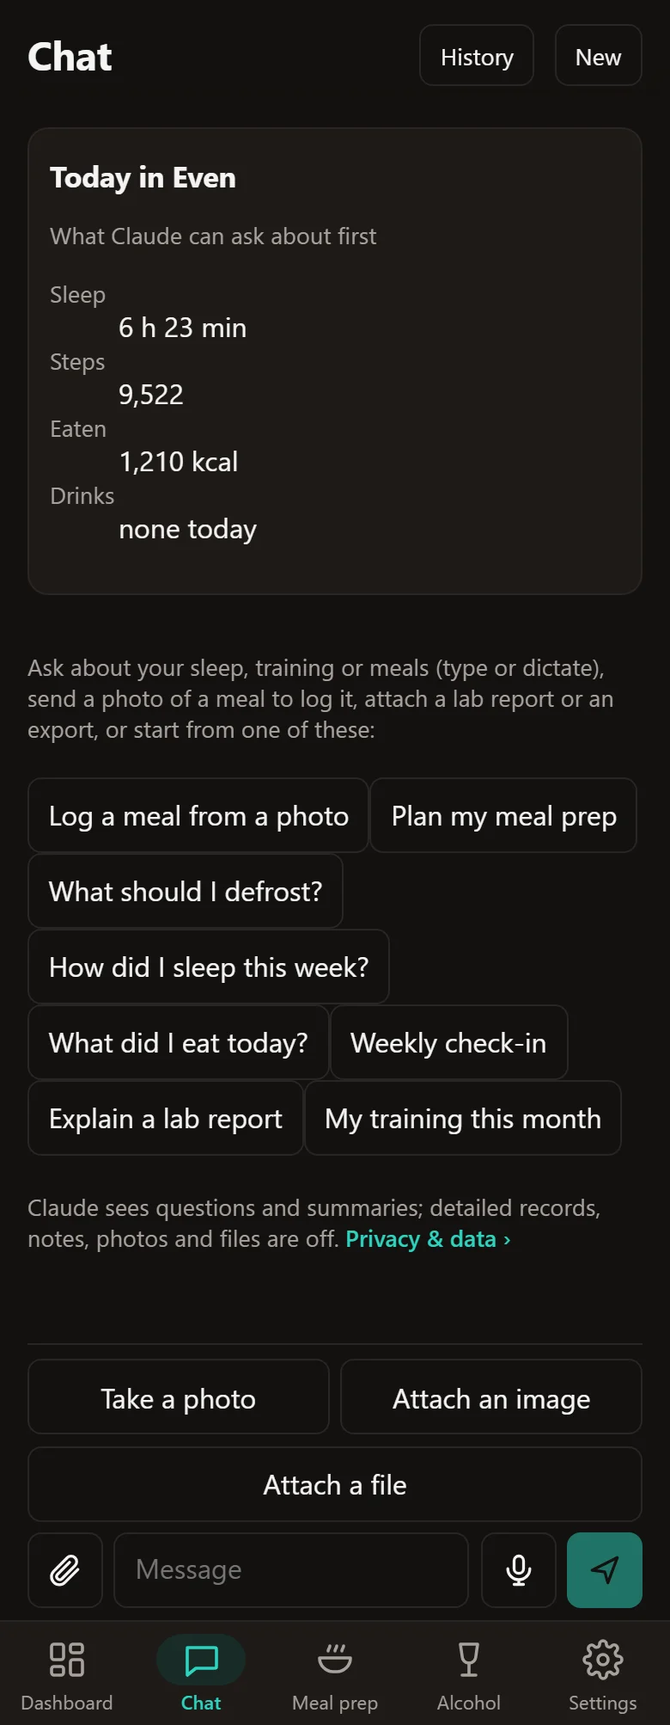
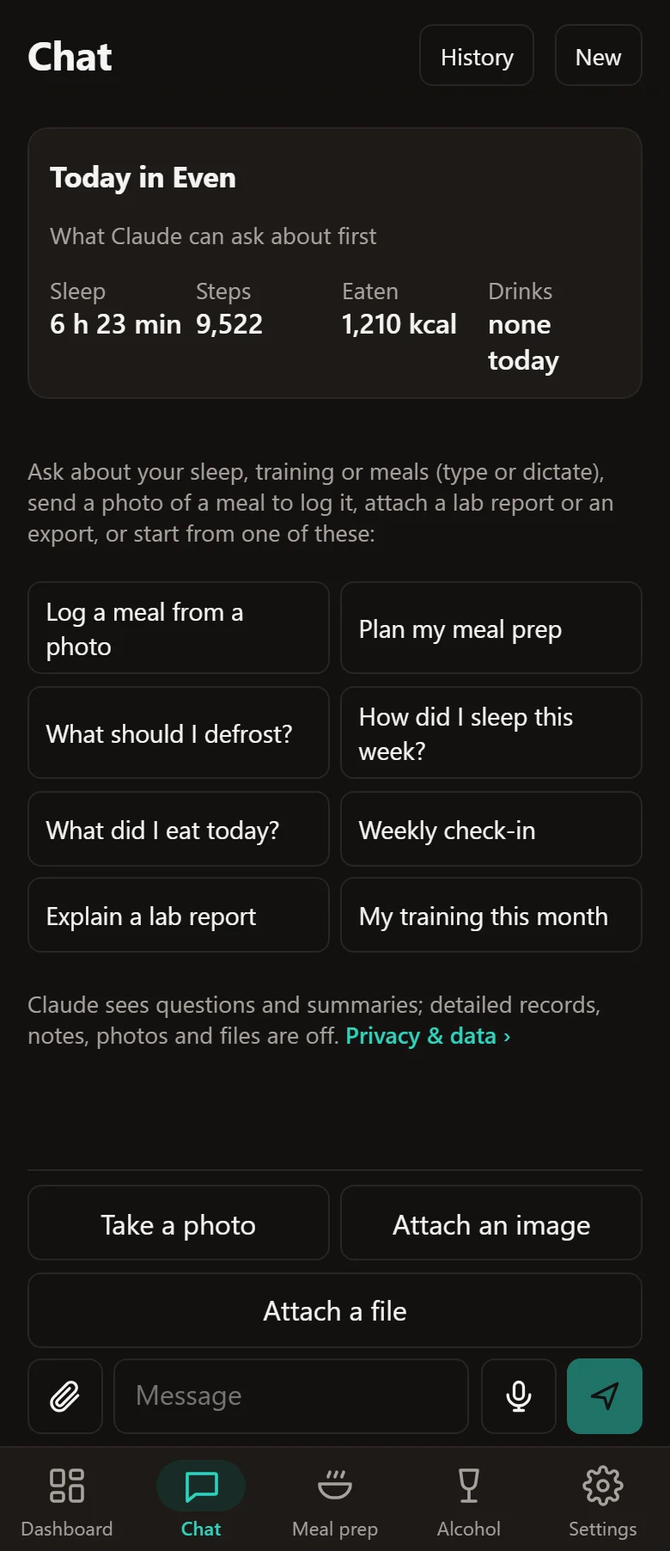
Docs and captures for the new screens; the shopping page's cells reach the grid
README, HLD and LLD describe the Plan tab, the alcohol favourites and
one-off drinks, saved meals, the settings menu and chat as they are now,
and the web's wide grid. New wide captures: plan, shopping, saved meals,
alcohol, settings and About.

diff --git a/docs/screens/index.html b/docs/screens/index.html
@@ -282,11 +282,15 @@ code { font-size: 0.9em; }
 </figure>
 <figure>
   <div class="shot"><img class="light" src="img/light-wide-chat.webp" alt="Web app: Chat on a computer (light)" loading="lazy"><img class="dark" src="img/dark-wide-chat.webp" alt="Web app: Chat on a computer (dark)" loading="lazy"></div>
-  <figcaption><strong>Chat on a computer</strong><span class="muted">Screens other than the Dashboard keep a readable width beside the menu.</span></figcaption>
+  <figcaption><strong>Chat on a computer</strong><span class="muted">The conversations on the left, the chat in the middle, and on the right today's numbers, what Claude may see and the last send.</span></figcaption>
 </figure>
 <figure>
   <div class="shot"><img class="light" src="img/light-wide-mealprep-plan.webp" alt="Web app: Tupper plan on a computer (light)" loading="lazy"><img class="dark" src="img/dark-wide-mealprep-plan.webp" alt="Web app: Tupper plan on a computer (dark)" loading="lazy"></div>
   <figcaption><strong>Tupper plan on a computer</strong><span class="muted">The four tiles in a row, the next 14 days as a two-week calendar (the days with nothing spread over their columns), Cook next beside the shopping list.</span></figcaption>
+</figure>
+<figure>
+  <div class="shot"><img class="light" src="img/light-wide-mealprep-shopping.webp" alt="Web app: Shopping on a computer (light)" loading="lazy"><img class="dark" src="img/dark-wide-mealprep-shopping.webp" alt="Web app: Shopping on a computer (dark)" loading="lazy"></div>
+  <figcaption><strong>Shopping on a computer</strong><span class="muted">The list, what was paid and the month's spending side by side, the six months and the shops under them.</span></figcaption>
 </figure>
 <figure>
   <div class="shot"><img class="light" src="img/light-wide-mealprep-saved.webp" alt="Web app: Saved meals on a computer (light)" loading="lazy"><img class="dark" src="img/dark-wide-mealprep-saved.webp" alt="Web app: Saved meals on a computer (dark)" loading="lazy"></div>

diff --git a/src/apps/web/web.css b/src/apps/web/web.css
@@ -533,33 +533,33 @@ body:has(.app-frame) {
     align-items: stretch;
   }
   /* Without a span a child takes the whole row. */
-  .app-frame .wide-grid > * {
+  .app-frame :is(.wide-grid, .wide-contents) > * {
     grid-column: 1 / -1;
     min-width: 0;
     margin-bottom: 0;
   }
-  .app-frame .wide-grid > .span-3 {
+  .app-frame :is(.wide-grid, .wide-contents) > .span-3 {
     grid-column: span 3;
   }
-  .app-frame .wide-grid > .span-4 {
+  .app-frame :is(.wide-grid, .wide-contents) > .span-4 {
     grid-column: span 4;
   }
-  .app-frame .wide-grid > .span-5 {
+  .app-frame :is(.wide-grid, .wide-contents) > .span-5 {
     grid-column: span 5;
   }
-  .app-frame .wide-grid > .span-6 {
+  .app-frame :is(.wide-grid, .wide-contents) > .span-6 {
     grid-column: span 6;
   }
-  .app-frame .wide-grid > .span-7 {
+  .app-frame :is(.wide-grid, .wide-contents) > .span-7 {
     grid-column: span 7;
   }
-  .app-frame .wide-grid > .span-8 {
+  .app-frame :is(.wide-grid, .wide-contents) > .span-8 {
     grid-column: span 8;
   }
-  .app-frame .wide-grid > .span-9 {
+  .app-frame :is(.wide-grid, .wide-contents) > .span-9 {
     grid-column: span 9;
   }
-  .app-frame .wide-grid > .span-12 {
+  .app-frame :is(.wide-grid, .wide-contents) > .span-12 {
     grid-column: 1 / -1;
   }
   /* A column of cards inside the grid. */

diff --git a/docs/LLD.md b/docs/LLD.md
@@ -514,12 +514,12 @@ If samples were written but a later step failed, the next run rewrites them in p
 
 - **Navigation** is the target's (`Target.Frame`, around the page the shell renders); the five sections are shared (`shell/tabs.ts`).
 - **Tab bar** (Android, `apps/android/TabBar.tsx`, `android.css`): fixed to the bottom on `--surface`, above the gesture area (`env(safe-area-inset-bottom)`), icon and label per tab, the open one with an `--accent-soft` pill behind its icon and `aria-current`. It sets `--tabbar-h`, which keeps the page end, the chat composer and sticky buttons above it (0 without a bar).
-- **Side menu** (web app, `apps/web/SideNav.tsx`, `media.ts`, `web.css`): the five sections on `--surface`, icon and label each, the open one on an `--accent-soft` pill with `aria-current`. Under 48rem (a phone held upright) it is a drawer: the menu button `PageHeader` shows at the top of a tab (through the `NavMenu` context, not on pages with a back button) slides it in over a `--scrim`; a choice, the scrim or Escape close it, and closed it is `inert`. From 48rem (a phone on its side, a tablet, a computer) it is docked on the left, icons only until 75rem; its top button switches labels and icons, kept in `localStorage` (`even.nav.rail`, a layout choice, no data). At its foot, when connected, the account's email and *Sign out* (`FrameProps.account`): it disconnects the device and removes the browser's copy, as Settings > Sync & devices does. Docked, screens get a wider margin (52rem), and the Dashboard 76rem with its sections in two columns from 60rem (`.dash-columns`, `.dash-block`); a phone held upright lays out as on Android. The Dashboard's `.dash-*` wrappers are shared and only the web's styles lay them out.
+- **Side menu** (web app, `apps/web/SideNav.tsx`, `media.ts`, `web.css`): the five sections on `--surface`, icon and label each, the open one on an `--accent-soft` pill with `aria-current`. Under 48rem (a phone held upright) it is a drawer: the menu button `PageHeader` shows at the top of a tab (through the `NavMenu` context, not on pages with a back button) slides it in over a `--scrim`; a choice, the scrim or Escape close it, and closed it is `inert`. From 48rem (a phone on its side, a tablet, a computer) it is docked on the left, icons only until 75rem; its top button switches labels and icons, kept in `localStorage` (`even.nav.rail`, a layout choice, no data). At its foot, when connected, the account's email and *Sign out* (`FrameProps.account`): it disconnects the device and removes the browser's copy, as Settings > Sync & devices does. Docked, every page gets up to 76rem, the Dashboard with its sections in two columns from 60rem (`.dash-columns`, `.dash-block`), and from 64rem every other page lays its cards on a 12-column grid: screens mark them with `.wide-grid` and `.span-N` (`.wide-contents` for a component whose parts are cells), `.wide-only` for context a phone leaves out and `.narrow-only` for the reverse. A phone held upright lays out as on Android. These wrappers are shared, and only the web's styles lay them out: the phone app keeps one column on any screen and never shows `.wide-only`.
 - **Sync**: `SyncButton` at the top of the Dashboard ("Synced 5 min ago", "Syncing…" with a spinner, amber when stale or failed; disabled until a Garmin key is stored) and `SyncBanner` above every tab (3+ days without a sync, or the last attempt failed, with its error and a Sync now button).
 - **DashboardScreen**, top to bottom: the sticky header (profile picture, "Hi, <first name>", today's date, the sync button as the ⟳ symbol only: its state, such as "Synced 5 min ago", is the tooltip and screen-reader label; amber when stale or failed; without a key it opens Settings > Connections); the last sync's warnings; quick actions (*Log food* opens Meal prep on the food log, *Log a drink* the Alcohol tab, *Ask Claude* the Chat, *Check-in* the journal); Day / Week / Month (segmented) and ‹ › between periods, with a way back to the current one (the next arrow stops at today); the hero card, animated in when the period changes: a `Ring` for calories eaten against the calorie target (a limit: warning color and "over" past it) and one for steps against the live steps goal (`targets` from `loadDashboard`), the day's number or the daily average, then burned, balance (eaten minus burned on days with both) and protein, and the calories split by macro (`MacroSplit`: protein, carbs, fat). *Check-in* (› *Journal*): the day's mood, energy and note, or a prompt to write one; for a week or month the days with a note and the average mood and energy; the latest weight (`latestWeight`, opens the measurements). *Energy* tiles: burned and active calories (on a day each with a sparkline of the two weeks before it, `activityTrend`), and for a week or month also eaten and steps with their totals (a day has those in the rings). A day adds *Steps, last two weeks*, a `BarChart` (tap a day to open it). Week and month add a steps `BarChart` (tap a day to open it) and a calories in and out `LineChart` with the calorie target. *Workouts* (› *Your activity* opens the profile), *Alcohol* (› *Open*: drinks with standard drinks and kcal, days without for a week or month, and what they cost when priced; `alcohol` from `loadDashboard`, `alcoholTotals`) and *Meal prep* (› *Open*): the figures as daily averages and totals; stock now; *Groceries*, what the supermarket cost in the period (`groceries` from `loadDashboard`, a dash when nothing is logged). A day also lists every synced number (`dayValues`, with device and "day not over"). Averages divide by days with data, and the current week or month stops at today.
-- **MealPrepScreen** (Meal prep tab): two groups in a `Segmented` bar, *Food log* (Today, History, Saved meals) and *Meal prep* (Stock, Recipes, Shopping), each group's views as `SubTabs`; switching group returns to the view last open in it. `App` owns the open view so the Dashboard can open the food log or the stock. Entries have light text actions (Eat again, ☆ Save, Edit) and a quiet trash icon. *Today*: meter for today against the target (numbers in text, warning color plus the words "over target" when over), macros, set or change the target, "Eat again" suggestions (one tap logs, with Undo), "Log a meal" (name with saved-meal completion that fills the macros, slot chips defaulting to the hour, macros, notes, camera photo, save to favourites), and today's entries by slot. *History*: 7-day `BarChart` of calories with the target as a dashed line (tap a bar to open the day, the selected bar shows its value), weekly average and days over target, the day's entries, jump to the previous logged day. Entries everywhere have Eat again, ☆ Save, Edit and Delete. *Saved meals*: grid of saved meals with photo, kcal, slot, times eaten and last time; log with servings; edit (photo, name, slot, macros, notes) or remove.
-- **AlcoholScreen** (Alcohol tab, `AlcoholView`): *Log a drink* first (one tap per drink type, with Undo, and "Other…"), then *How it adds up*: period chips (today, 7 days, 30 days, year); tiles for drinks (and standard drinks), kcal (flagged when some are estimated) and money (flagged when some drinks have no price); "Weight without alcohol" (expected weight, the difference, where the weight came from, and the caveat); one-tap logging from drink types (with Undo) and "Other…" (name, ml, ABV, kcal with an estimate placeholder, price, how many, save as a type); the period's drinks with delete; drink types with edit/remove; the currency. Drink kcal are also added to the Calories meter ("including N kcal from drinks") and to the History bars and averages.
-  Then the meal prep, with tag filter chips on Stock and Recipes. *Stock*: totals (meals left, in the fridge, frozen), the defrost plan with a portions-a-day field, alerts, one card per batch with fridge and freezer lots, Eat / Freeze / Defrost / Undo for N portions and, under *More*, Toss and Delete batch, and "Log a cook" (portions made, straight to the freezer). *Recipes*: list with a batches count per recipe and "Add to shopping list"; editor for name, portions, shelf life, per-portion macros, tags (suggested breakfast, lunch, dinner, snack, or free text) and ingredients. *Shopping*: add item, tick, remove, clear ticked or all, share (phone) or copy (browser) the open items as text; with items ticked, *Log what you paid* opens Spending. *Spending* (`spending.ts`): *Log a shop*: supermarket (chips for the ones used before, `knownShops`), what was paid in the app currency, the day (today keeps the time, a past day is stored at noon; future days refused), an optional note, and when the list has ticked items "Clear the N ticked items" (on by default; `addTrip` clears them and counts them on the trip in one transaction); *Undo* after a save or delete. Then ‹ month › with a way back to this month: *Spent* (with the change against the month before) and *Shops* (average per shop) tiles; *By supermarket* (case-insensitive, latest spelling, biggest first, a `Meter` for each one's share); *Groceries per month*, a `BarChart` of the last six months (tap a month to open it); the month's shops (7, then *Show all*) with a quiet delete (soft, `restoreTrip` undoes it).
+- **MealPrepScreen** (Meal prep tab): two groups in a `Segmented` bar, *Food log* (Today, History, Saved meals) and *Meal prep* (Plan, Stock, Recipes, Shopping), each group's views as `SubTabs`; switching group returns to the view last open in it. `App` owns the open view so the Dashboard can open the food log or the stock. Entries have light text actions (Eat again, ☆ Save, Edit) and a quiet trash icon. *Today*: meter for today against the target (numbers in text, warning color plus the words "over target" when over), macros, set or change the target, "Eat again" suggestions (one tap logs, with Undo), "Log a meal" (name with saved-meal completion that fills the macros, slot chips defaulting to the hour, macros, notes, camera photo, save to favourites), and today's entries by slot. *History*: 7-day `BarChart` of calories with the target as a dashed line (tap a bar to open the day, the selected bar shows its value), weekly average and days over target, the day's entries, jump to the previous logged day. Entries everywhere have Eat again, ☆ Save, Edit and Delete. *Saved meals*: list of saved meals with photo, kcal, slot, times eaten and last time; log with servings; edit (photo, name, slot, macros, notes) or remove; then *Eaten most this month*, the three meals logged most in 30 days that are not saved (`suggestions`), each with ☆ Save (`saveEntryAsMeal`) and, on a wide screen, Log again.
+- **AlcoholScreen** (Alcohol tab, `AlcoholView`): *Log a drink* first: the day (an earlier one for a forgotten drink), the favourites (drink types) with how often each was had in 7 days (`typeUsesSince`) and a +1 (one tap logs one, with Undo), and *One-off drink* (name, ml, ABV, kcal with an estimate placeholder, price, how many, day and time; logged once unless *Also save as a favourite*). Then period chips (today, 7 days, 30 days, year) and tiles for drinks (and standard drinks), kcal, money and weight without alcohol (expected weight, the difference, an upper bound). Then the period's drinks (5, then *All n*), each with a pencil that opens its fields, day and time (`updateDrink` changes that drink only, never its favourite) and a delete. The favourites (edit, remove, new, the currency) are a page of their own on a phone (*Favourites ›*) and a card beside the drinks on a wide screen, where the one-off form and the drinks per day of the last week are always shown. Drink kcal are also added to the Calories meter ("including N kcal from drinks") and to the History bars and averages.
+  Then the meal prep, with tag filter chips on Stock and Recipes. *Plan* (`PlanView`): days covered and tuppers in stock, tuppers a day (1 or 2, `setPortionsPerDay`), the next defrost, then 14 days from `planDefrost`'s `meals` (which batch each day, from the fridge or thawed, eat-by or the day it came out) with the night to take each out of the freezer, days with nothing folded into one row, and *Cook next* (the recipe with the fewest portions left, cooked longest ago; *Add to shopping list* adds one batch). *Stock*: totals (meals left, in the fridge, frozen), alerts, the 14 days as a strip colored by batch (Plan › opens them), one card per batch with fridge and freezer lots, Eat / Freeze / Defrost / Undo for N portions and, under *More*, Toss and Delete batch, and "Log a cook" (portions made, straight to the freezer). *Recipes*: list with a batches count per recipe and "Add to shopping list"; editor for name, portions, shelf life, per-portion macros, tags (suggested breakfast, lunch, dinner, snack, or free text) and ingredients. *Shopping*: add item, tick, remove, clear ticked or all, share (phone) or copy (browser) the open items as text; with items ticked, *Log what you paid* opens Spending. *Spending* (`spending.ts`): *Log a shop*: supermarket (chips for the ones used before, `knownShops`), what was paid in the app currency, the day (today keeps the time, a past day is stored at noon; future days refused), an optional note, and when the list has ticked items "Clear the N ticked items" (on by default; `addTrip` clears them and counts them on the trip in one transaction); *Undo* after a save or delete. Then ‹ month › with a way back to this month: *Spent* (with the change against the month before) and *Shops* (average per shop) tiles; *By supermarket* (case-insensitive, latest spelling, biggest first, a `Meter` for each one's share); *Groceries per month*, a `BarChart` of the last six months (tap a month to open it); the month's shops (7, then *Show all*) with a quiet delete (soft, `restoreTrip` undoes it).
 - **MeScreen** (the profile, from the Dashboard's picture): the owner's page and their past activity, imported (Garmin export) or synced (Garmin Personal API).
   - *Header*: picture (tap to change: cropped to a 256 px square JPEG, EXIF dropped, stored as `profile.photo` in `app_settings`, so it is backed up; remove), name, age, height, latest weight, *Edit profile* (opens Settings > Profile).
   - *My sports*: the sports the owner picks, in their order (`profile.sports`); they lead the activity totals.
@@ -528,8 +528,8 @@ If samples were written but a later step failed, the next run rewrites them in p
   - *Activities*: range chips (30 days, 1 year, all); totals per sport (sessions, time, distance), the owner's sports first; the longest session per sport; the 8 latest workouts (type, day, time, distance, average HR, kcal).
   - Logic in `domain/me/`. `listWorkouts` groups `activity_*` samples by (source, external_id): one session each. freddy numbered each metric per day, so only metrics every session has are read (type, duration, distance, kcal, average HR). A day's sessions come from one source, in the order of `daily_metric_values`: the Garmin sync, then freddy, then the export. Start times come from the sync and the export (freddy rows start at midnight). `goalProgress` reads a goal's daily numbers (`daily_metric_values` by `daily_agg`, `daily_nutrition`, `daily_alcohol`, or the day's last manual measurement) and `evaluate` (pure) compares them: day goals per day with the last 7 days and a streak (today only extends it once met); week (Monday start) and month goals on the period so far, amounts summed, levels averaged, manual measurements by the latest. A summed amount under a limit is "on track" until the period ends.
 - **LogsScreen** (Settings > Admin > Debug logs): counts with error and warning badges; *Export for Claude* writes `logReport` (a brief, the context: platform, build, time zone, level, span, counts and the scopes with problems; errors and warnings; then every record oldest first, fenced so no record can close the block) to `health-logs-<local date>-<hhmm>.md`, through the share sheet on the phone (pick the Claude app) or as a download; *Share as text* / *Copy as text* sends the same report; *Clear* asks once more and logs how many records it removed. Level picker (stored) and a display filter; the list follows new records every 2 s. It reads the stored records (`loadLogs`), and *Clear* empties `log_records`. The same screen sits under the message when the database cannot open (no tabs then): it shows the ring buffer, says to export before closing the app, and the level change applies to that run only.
-- **ChatScreen** (Chat tab): not connected shows a card that opens Settings > Connections. Otherwise History (conversations, newest first, delete) and New; the conversation as bubbles (text and photos; tool calls, thinking and the `[App]` clock line are hidden); quick prompts when empty. The composer: a camera button that offers *Take a photo* (`capture="environment"`) or *Attach an image* (gallery, several), up to `MAX_IMAGES_PER_MESSAGE`, each through `downscalePhoto` with a preview and remove; Enter sends, Shift+Enter breaks the line. `askConsent` and `confirmAction` show an inline card and wait for the tap. Retryable API errors offer *Try again* (`continueConversation`); a send that failed before anything was stored (permission declined) puts the text and photos back. *Changes in this chat* lists `listAgentActions` with Undo for applied ones.
-- **SettingsScreen**: a menu (`MenuList`, `SETTINGS_MENU`) in three groups, *You* (Profile, Friends), *Data* (Sync & devices, Connections, Privacy & data) and *App* (About), plus *Admin* (Admin, Debug logs) for an admin account (asked of the server once per connection and remembered per account in `app_settings` `admin.account`, so it shows offline), each row with an icon and what is inside; a page opens with a back button to the menu. The page is owned by `App`. Messages are shown inline; nothing throws to React.
+- **ChatScreen** (Chat tab): not connected shows a card that opens Settings > Connections. Otherwise History (conversations, newest first, delete) and New; the conversation as bubbles (text and photos; tool calls, thinking and the `[App]` clock line are hidden); when empty, *Today in Even* (sleep, steps, eaten, drinks from `loadDashboard`), the quick prompts two to a row and what Claude may see (`consentStatus`) with a link to Privacy & data. On a wide screen the conversations stay on the left and today, consent and the last send (`listDisclosures`) on the right. The composer: a camera button that offers *Take a photo* (`capture="environment"`) or *Attach an image* (gallery, several), up to `MAX_IMAGES_PER_MESSAGE`, each through `downscalePhoto` with a preview and remove; Enter sends, Shift+Enter breaks the line. `askConsent` and `confirmAction` show an inline card and wait for the tap. Retryable API errors offer *Try again* (`continueConversation`); a send that failed before anything was stored (permission declined) puts the text and photos back. *Changes in this chat* lists `listAgentActions` with Undo for applied ones.
+- **SettingsScreen**: a menu (`MenuList`, `SETTINGS_MENU`) in three groups, *You* (Profile, Friends), *Data* (Sync & devices, Connections, Privacy & data) and *App* (About), plus *Admin* (Admin, Debug logs) for an admin account (asked of the server once per connection and remembered per account in `app_settings` `admin.account`, so it shows offline), each row with an icon, what is inside and where it stands (`summary.tsx`: name and calorie target, Garmin and chat, the last backup, version and schema); a backup missing or over a month old gets a nudge under the menu. On a phone a page opens with a back button to the menu; on a wide screen the menu stays on the left, beside the open page or `SettingsOverview` (every page at a glance and what is stored). The page is owned by `App`. Messages are shown inline; nothing throws to React.
   - *Profile* (`ProfileSettings`): on a connected device, a line that the Even account (the sync account) is managed in Sync & devices, with a button there; on a device that never connected, the Google account (sign in, sign out, release ownership after a second confirmation; sign-in only in a native build with `VITE_GOOGLE_WEB_CLIENT_ID`). Then the profile: name, birth date, sex, height, activity level, weight goal per week. Below it, live estimates from the form and the latest weight (`latestWeight`: manual or synced): age, BMI and class, BMR, daily energy, calorie target (flagged when held at BMR), protein, the healthy weight range, and which inputs are still missing.
   - *Sync & devices* (`SyncSettings`; [users.md](users.md)): not connected, `ConnectPanel`: *Log in* or *Sign up* in a chooser with a one-line hint under it, and *Pair with a device* beside them (a container query at 44rem; on the web gate a tinted side of one card under the logo and name, centred in the window). In a narrower panel the QR goes under the forms with a mouse (`pointer: coarse` is not matched), so a computer always shows it; on a touch screen (a phone) the two take turns so each fits one screen: *Pair with a QR code* under the forms opens the pairing side, *Log in or sign up instead* goes back, and the pairing side stays mounted while hidden so its code is ready, so pairing needs no choice first: *Log in* (email and recovery passphrase; what to do after forgetting it: pair, then set a new one), the pairing side (the QR, asked for on its own once the server address is known, the code always shown under it with *Copy*, a countdown, and the steps on the connected device folded under *How to pair*) and *Sign up* (invite code uppercased as typed, a live hint from `passphraseHint` on what the passphrase still needs, red only for a mismatch, and a switch confirming it is written down); on the web, *This is a shared computer* as a `Switch`. The server address may be typed without `https://` (`serverBase` adds it). Connected: the last sync and *Sync now* (shows the cloud error rather than "Synced."), devices with *Remove*, *Google* (link a Google account to the Even account, `POST /v1/me/google`; native builds with a Google client id), *Add a device* (approve a pairing code), the passphrase, and deleting the account.
   - *Connections* (`ConnectionSettings`), one card each:
@@ -538,7 +538,7 @@ If samples were written but a later step failed, the next run rewrites them in p
     - *Claude*: status, key hint and check time, problem text, *Disconnect*; when not connected, the key field (verified with `claudeKeyVerifier` over native HTTP before saving) and *How do I get a key?* (the three `CONNECT_STEPS` and a link to the Console).
   - *Privacy & data* (`PrivacySettings`), one card each: *What Claude may see*, the four consents as `Switch` rows with their text (each change is a new `consents` row with the device id); *Sent to Claude*, the count and total size and the last 5 (then *Show all*) with time, size and class; *On this phone* (`dataInventory`: live rows per kind with first and last day, kinds with nothing stored in one line); *Backup* (on a connected device the file names its sync account, `syncAccountId`), with a badge for the last saved backup (`lastBackupSaved`, setting `backup.last_saved_ms`, written by `markBackupSaved` once the file is saved; a warning when there is none or it is over 30 days old), the password twice and *Create backup*; *Restore*, a backup file, its password and *Restore*.
   - *Debug logs*: `LogsScreen`.
-  - *About* (`AboutSettings`): the Even logo and name, version (`package.json`, through `vite.config.ts`; `scripts/android-harden.mjs` also writes it as the APK's versionName), build time, platform, database schema (`PRAGMA user_version`), chat model, the end of the device id, and where data goes.
+  - *About* (`AboutSettings`): the Even logo and name, version (`package.json`, through `vite.config.ts`; `scripts/android-harden.mjs` also writes it as the APK's versionName), build time, platform, database schema (`PRAGMA user_version`), chat model, the end of the device id, where data goes, and what is stored on this phone (`dataInventory`) with a link to Privacy.
 
 - **JournalScreen** (from *Check-in* on the Dashboard, over it with a back button): two views in a `Segmented` bar.
   - *Check-in*: ‹ day › (today by default, or the Dashboard's day); mood and energy as `ScaleRating` (1 to 5, each step named: very low … very good; tap again to clear) and a note; *Save* creates or updates the day's one note (`saveDayNote`; an empty one is deleted; future days refused), *Delete* asks first. A note the chat added says so and edits the same row. Mood and energy over 30 days (`LineChart`, values in words) once two days are rated; the last 30 days of notes (7, then *Show all*), tap one to open it.
@@ -871,7 +871,7 @@ Run with `npm test` (`tsx --import ./tests/setup.ts --test tests/*.test.ts`), 41
 | `garminImport.test.ts` | file selection by tail (emails in names), unreadable/empty ZIPs, unit conversions (cm, ms, minutes), per-day offsets, no-data markers dropped, date-time dates, profile weight skipped, VO2 latest wins, privacy (no names, places, coordinates, email), report counts, store (aggregation defaults come from `classifyMetric`), activity kcal from kJ, the 0009 kJ fix, re-import idempotent and keeping the owner's choices, day view |
 | `account.test.ts` | ID token claim checks (issuer, audience incl. arrays, expiry with skew, subject), bind with existing data adopted, owner re-sign-in refreshes email, other account refused, sign-out keeps binding, release and re-bind, backup owner guard (refused / fresh phone / same owner), sign-in flow outcomes and safe messages |
 | `connect.test.ts` | key verified over native HTTP before saving (GET models, bearer), rejected keys never saved (401, 404, 529, malformed) with safe messages, key never in SQLite, connection marked and cleared by `watchConnection`, other errors ignored, disconnect |
-| `mealPrepStock.test.ts` | stock fold (lots, eat-by, defrost readiness, overdraw), alerts, defrost plan (advice days, late, short days, waste, eaten today) |
+| `mealPrepStock.test.ts` | stock fold (lots, eat-by, defrost readiness, overdraw), alerts, defrost plan (advice days, late, short days, waste, eaten today, the batch eaten each day) |
 | `health.test.ts` | age, BMI and range, BMR/TDEE/target with the floor, macro kcal and split, protein, alcohol and standard drinks, max HR and both zone methods, mean, slope across DST, rolling average with gaps, smoothing |
 | `palette.test.ts` | every palette role defined in both themes; text roles at WCAG AA on `--bg` and `--surface` (and `--on-accent` on the accent); the contrast maths against reference values; no literal color (hex, `rgb()`/`hsl()`, color names) anywhere in `src/` outside the palette, comments aside; the logo, favicon and Android icon use only brand colors; `index.html` theme-color is `--bg`; the Android colors and splash theme come from the palette; no undefined tokens |
 | `uiLayout.test.ts` | `PageHeader`, `SubTabs`, `Segmented`, `ChipGroup`/`RangePicker`, every `Icon`, the Android tab bar's five tabs and current one, the web side menu's drawer and docked states, the header's menu button, and each entry's navigation, the Meal prep views in order (Spending last); screens use the shared header, tab rows and icons |

diff --git a/docs/HLD.md b/docs/HLD.md
@@ -100,7 +100,7 @@ flowchart TB
 | Dashboard tab | A greeting with the profile picture (opens the profile) and sync; quick actions (log food or a drink, ask Claude, the check-in); Day / Week / Month with rings for calories eaten against the target and steps against the goal, burned, balance, protein and the calories split by macro; the check-in and latest weight; energy, workouts, alcohol and meal prep as the day's numbers or daily averages and totals; charts per day, and for a single day the two weeks before it; every synced number of a day | `src/domain/dashboard/` |
 | Journal (from the Dashboard) | Daily check-in (mood and energy 1 to 5, a note) with 30 days of history and a trend; manual measurements (weight, body fat, waist, blood pressure, resting heart rate, glucose, supplements, symptoms) with a trend per kind | `src/domain/journal/` |
 | Chat tab | Conversations with Claude: typed or dictated messages, camera or gallery photos, PDF and text files, quick prompts, consent and change confirmation in line, changes with undo, history | `src/screens/chat/ChatScreen.tsx` |
-| Meal prep tab | Two groups: *Food log* (today, history, saved meals) and *Meal prep* (stock and defrost plan, recipes, shopping list, supermarket spending per month and per supermarket) | `src/screens/mealprep/`, `src/screens/food/` |
+| Meal prep tab | Two groups: *Food log* (today, history, saved meals) and *Meal prep* (the tupper plan for the next 14 days, stock, recipes, shopping list, supermarket spending per month and per supermarket) | `src/screens/mealprep/`, `src/screens/food/` |
 | UI kit and palette | Shared components (charts, figures, controls, `PageHeader`, `SubTabs`, `Segmented`, `Icon`) and the one color palette (`palette.css`), checked by tests. Screens: `docs/screens/index.html` | `src/ui/` |
 | Alcohol tab | One-tap drink logging first, then drinks per period, their kcal and cost, weight without alcohol | `src/screens/alcohol/` |
 | Settings tab | A menu in three groups (You, Data, App), plus Admin for an admin account, opening each page with a way back. *Admin* (an admin account only): Admin and *Debug logs*, the Logs screen. *Profile*: the Google account on a phone that never connected (the sync account otherwise), owner profile (birth date, sex, height, activity, weight goal) and the estimates it allows. *Connections*: a card each for the Garmin sync (key, reminder), the Garmin history import (the export ZIP, read on the phone) and Claude. *Sync & devices*: connect (log in or sign up from an invite, with the pairing QR and code beside them), devices, Google link, passphrase. *Friends*: shares per kind. *Privacy & data*: Claude consents as switches, what was sent, what is stored, backup (with its age) and restore. *About*: version, build, platform, schema | `src/domain/settings/` |

diff --git a/README.md b/README.md
@@ -16,7 +16,7 @@ Done and tested (`npm test`, all against Node's SQLite and a fake that copies th
 
 - Claude agent (`src/domain/chat/`): answers questions about your data, estimates and logs meals from photos, logs saved meals and meal prep portions, saves favourites, creates meal prep recipes and shopping lists, records cooked batches, and logs drinks, measurements, notes and goals. Every change is confirmed by you, logged and undoable; what it can read depends on your permissions. Try it on a PC: `npm run chat -- --db health.sqlite --photo lunch.jpg "Log this lunch"`.
 
-- Five tabs in a bottom bar: **Dashboard** (steps, calories burned and eaten, balance, recovery from the watch (sleep, resting heart rate, HRV, Body Battery, stress), meal prep and workouts by day, week or month, with daily averages and totals; sync and the profile with past activity at the top; the journal: daily check-in and manual measurements), **Chat** (Claude, with camera and image attach), **Meal prep** (log what you eat on any day against calorie and macro targets, eat meal prep from the log, stock and the defrost plan, recipes you cook or shop for, and the shopping list with what the supermarket cost), **Alcohol**, **Settings** (profile, connections, privacy and data, debug logs, about with the version).
+- Five tabs in a bottom bar: **Dashboard** (steps, calories burned and eaten, balance, recovery from the watch (sleep, resting heart rate, HRV, Body Battery, stress), meal prep and workouts by day, week or month, with daily averages and totals; sync and the profile with past activity at the top; the journal: daily check-in and manual measurements), **Chat** (Claude, with camera and image attach), **Meal prep** (log what you eat on any day against calorie and macro targets, eat meal prep from the log, the tupper plan (which one each day, when to defrost, what to cook next), stock, recipes you cook or shop for, and the shopping list with what the supermarket cost), **Alcohol** (favourites with a +1, one-off drinks, any logged drink can be changed), **Settings** (profile, connections, privacy and data, debug logs, about with the version).
 - **Phase 2 (0.4, now 0.4.2):** a sync server (Hono + Postgres on Vercel and Neon) keeps each account's rows sealed on the device; accounts from invites with a recovery passphrase, more devices by pairing, friends who see daily summaries per shared kind, admins (also through Claude with the admin MCP server), and the web app with its own sealed copy in the browser. Settings > Sync & devices on the phone. Details: [docs/users.md](docs/users.md).
 - See every screen in light and dark: [docs/screens/index.html](docs/screens/index.html) (regenerate with `npm run docs:screens`); colors in [docs/screens/palette.html](docs/screens/palette.html).
 
